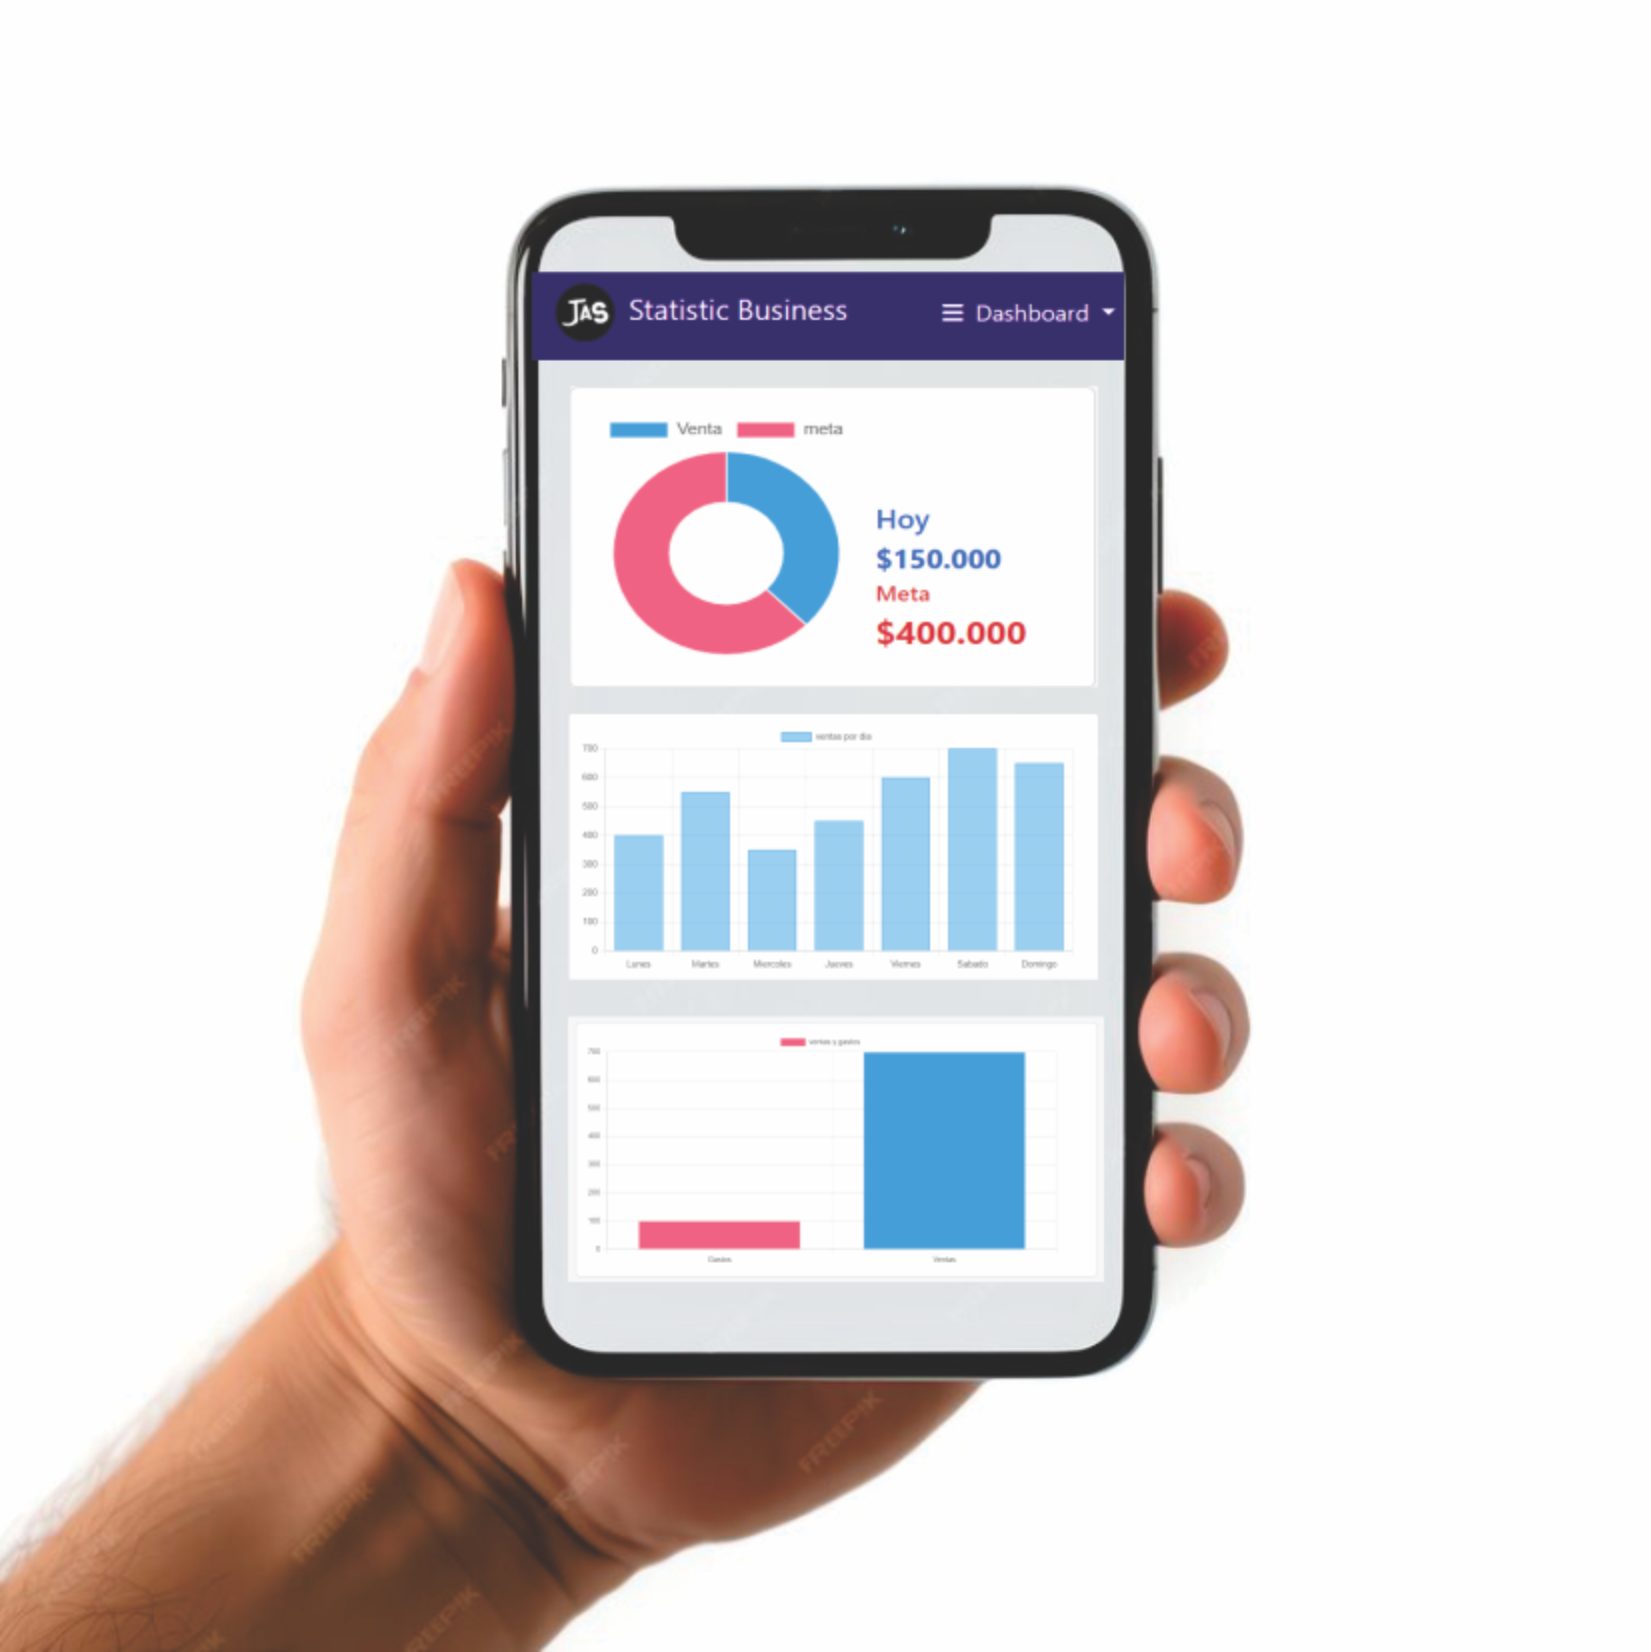
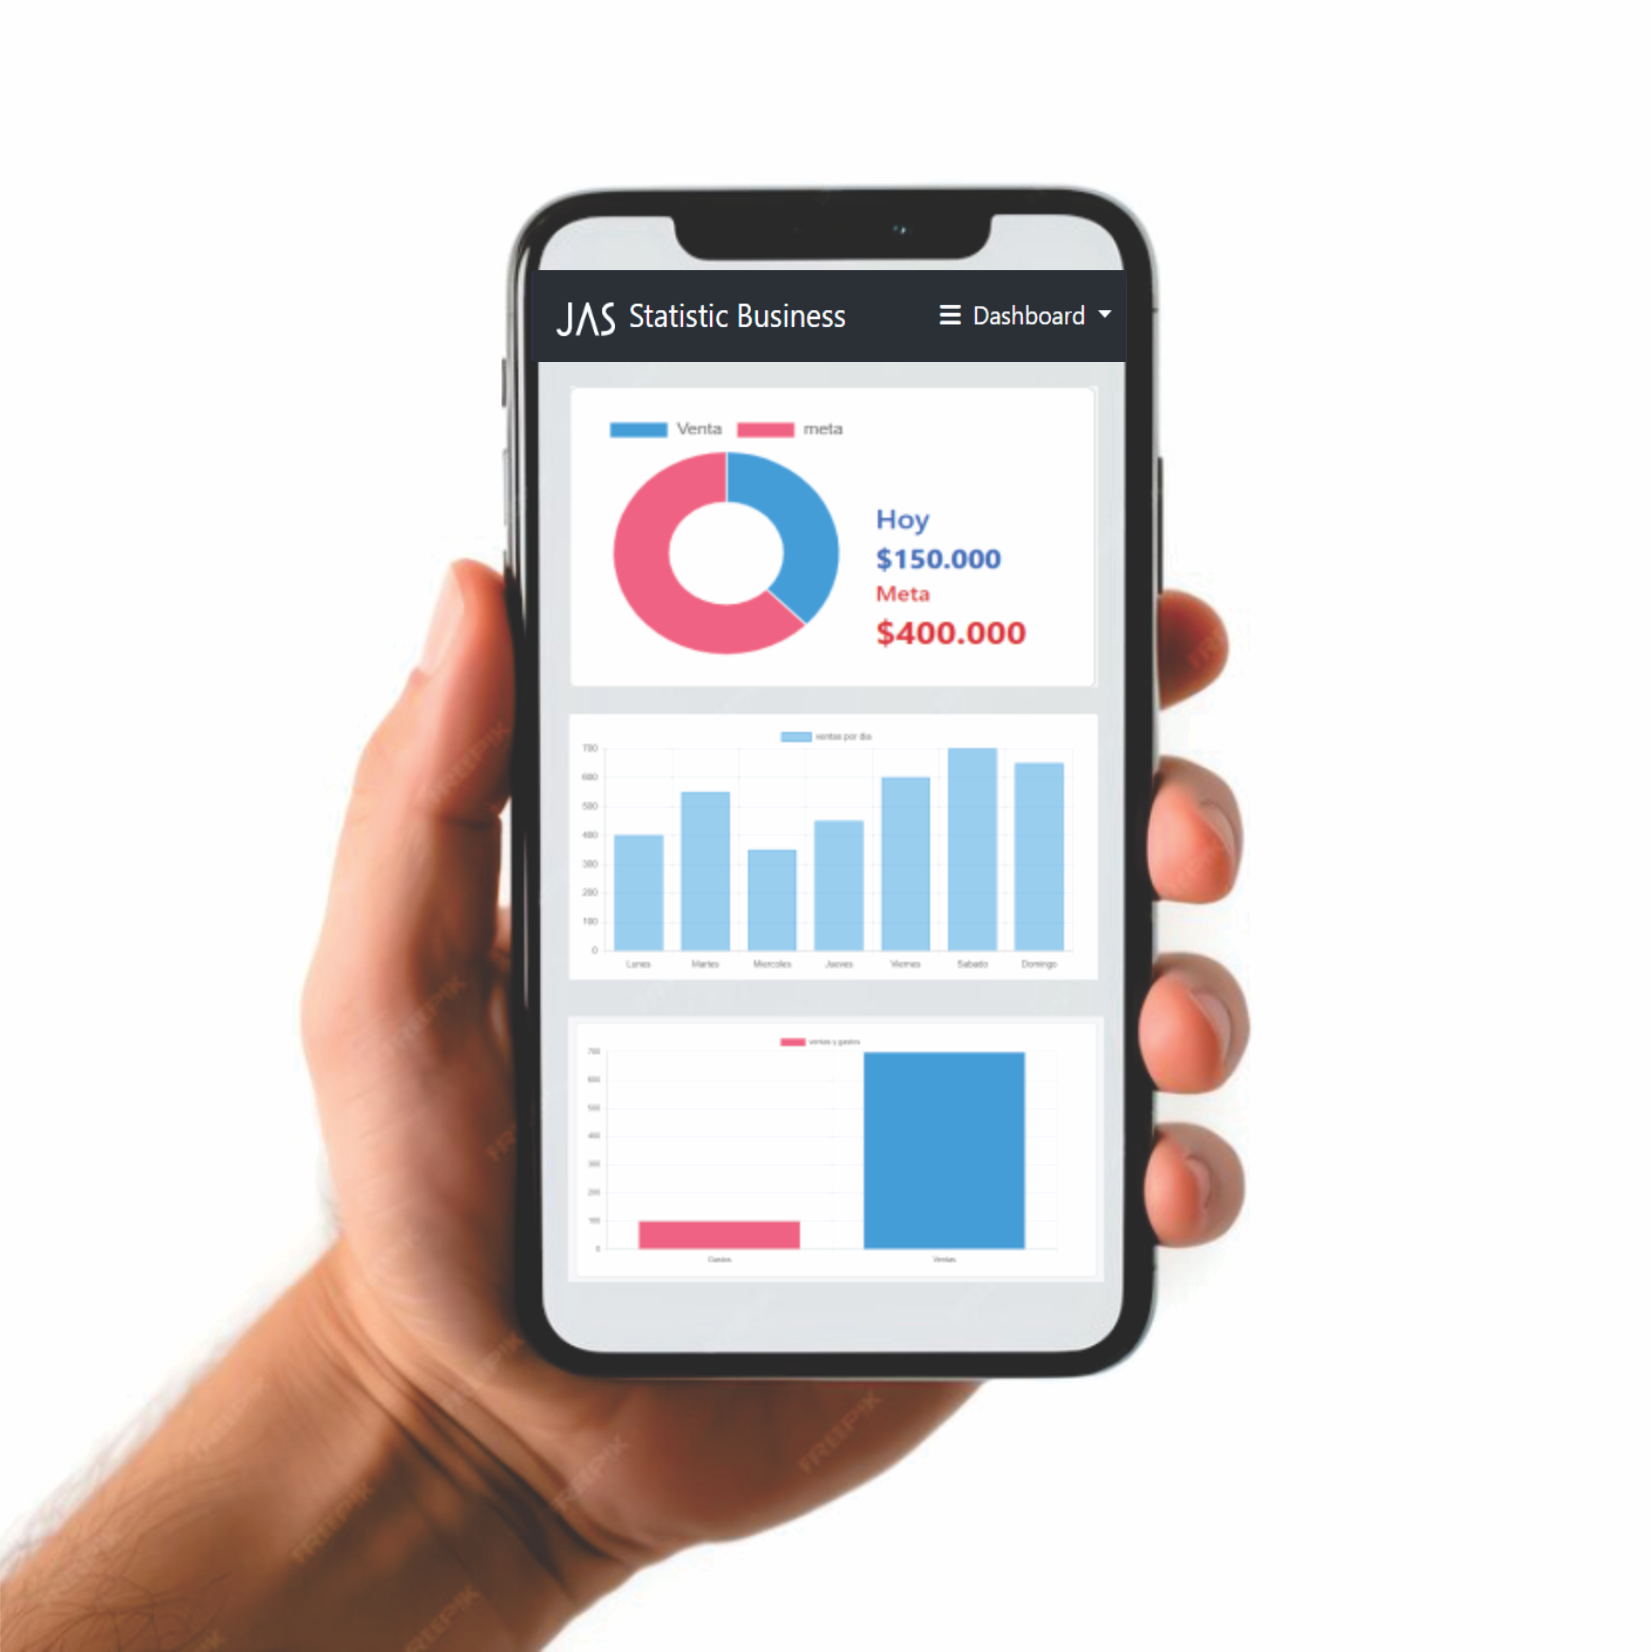
actualizancion

Changed region(s): [[0.3089, 0.1544, 0.6796, 0.2161]]

diff --git a/src/app/components/ventas/ventas.component.html b/src/app/components/ventas/ventas.component.html
@@ -32,11 +32,11 @@
                             <div class="d-flex justify-content-between align-items-center my-2">
                                 <p class="fs-4 text-producto mb-0">{{ prodCarrito.nombre }} - ${{ prodCarrito.valor * prodCarrito.cantidad }}</p>
                                 <div class="btn-toolbar btn-group-mas-menos" role="toolbar" aria-label="Toolbar with button groups">
-                                    <button type="button" class="btn btn-dark mas_menos" (click)="modificarProductoResumen('restar', prodCarrito.cantidad, $index)">
+                                    <button type="button" class="btn btn-secondary mas_menos" (click)="modificarProductoResumen('restar', prodCarrito.cantidad, $index)">
                                         <i class="fa-solid fa-minus"></i>
                                     </button>
                                     <p class="fs-4 mx-2 mb-0">{{ prodCarrito.cantidad }}</p>
-                                    <button type="button" class="btn btn-dark mas_menos" (click)="modificarProductoResumen('sumar', prodCarrito.cantidad, $index)">
+                                    <button type="button" class="btn btn text-white mas_menos botonpagp" (click)="modificarProductoResumen('sumar', prodCarrito.cantidad, $index)">
                                         <i class="fa-solid fa-plus"></i>
                                     </button>
                                 </div>
@@ -76,7 +76,7 @@
                                         </div>
                                     </div>
                                     <div class="modal-footer">
-                                        <button class="btn btn-primary" data-bs-target="#exampleModalToggle2" data-bs-toggle="modal">Proceder al pago</button>
+                                        <button class="btn btn botonpagp text-white"  data-bs-target="#exampleModalToggle2" data-bs-toggle="modal">Proceder al pago</button>
                                     </div>
                                 </div>
                             </div>
@@ -94,14 +94,14 @@
                                     </div>
                                     <div class="modal-footer">
                                         <button type="button" class="btn btn-secondary" data-bs-dismiss="modal">Cancelar</button>
-                                        <button type="button" class="btn btn-primary" data-bs-dismiss="modal">Confirmar pago</button>
+                                        <button type="button" class="btn btn text-white botonpagp" data-bs-dismiss="modal" (click)="confirmarPago()">Confirmar pago</button>
                                     </div>
                                 </div>
                             </div>
                         </div>
 
                         <div>
-                            <button class="btn btn-dark fs-5 mt-5" data-bs-target="#exampleModalToggle" data-bs-toggle="modal">Hacer pedido</button>
+                            <button class="btn btn botonpagp text-white fs-5 mt-5" data-bs-target="#exampleModalToggle" data-bs-toggle="modal">Hacer pedido</button>
                         </div>
                     </div>
                 </div>

diff --git a/src/app/components/pagina-principal/pagina-principal.component.html b/src/app/components/pagina-principal/pagina-principal.component.html
@@ -1,6 +1,6 @@
 <nav class="navbar">
     <a class="navbar-brand ms-3" href="#">
-        <img src="img/LOGO STADISTIC.png" alt="Bootstrap" width="50" height="50" class="ms-4" />
+        <img src="img/nuevo_logo.png" alt="Bootstrap" width="110" height="70" class="ms-4" />
     </a>
     <ul class="nav justify-content-end">
         <li class="nav-item">
@@ -19,7 +19,7 @@
         <img src="img/mano_estadisticas.png" class="imagen_mano" />
         <div class="" style="width: 450px; height: 505px">
             <p class="titulo fw-bold">Controla tu negocio</p>
-            <p class="parrafo fw-bolder">Usa nuestro software para controla tu negocio desde tu celular</p>
+            <p class="parrafo fw-bolder">Gestiona tu negocio de manera fácil y directa desde tu celular</p>
             <div>
                 <a href="#footer">
                     <button type="button" class="botonend btn btn-outline-success fw-bolder">
@@ -49,12 +49,12 @@
                     <input type="number" class="form-control mb-2" id="inputPassword1" placeholder="Numero de celular" />
                 </div>
             </div>
-            <div class="d-flex">
-                <img src="img/logo_face.png" alt="" class="logos" />
-                <img src="img/logo_instagram.png" alt="" class="logos" />
-                <img src="img/logo_x.png" alt="" class="logosx" />
-            </div>
         </div>
+    </div>
+    <div class="d-flex ">
+        <img src="img/Facebook-logo.png" alt="" class="logos" />
+        <img src="img/insta-logo.png" alt="" class="logos" />
+        <img src="img/X-Logo.png" alt="" class="logosx" />
     </div>
     <div></div>
 </body>

diff --git a/src/app/components/pedidos/pedidos-componente.component.html b/src/app/components/pedidos/pedidos-componente.component.html
@@ -1,0 +1,26 @@
+<div class="cajita">
+    <span class="texto3">Resumen de pedidos</span>
+    <div class="linea"></div>
+    <div class="d-flex justify-content-center align-items-center">
+        <section class="col-7">
+            <div *ngFor="let compra of comprasGuardadas; let i = index" class="card p-2 mb-3">
+                <div class="row g-0">
+                    <div class="col-md-10">
+                        <div class="card-body d-flex justify-content-between position-relative">
+                            <button (click)="eliminarCompra(i)" class="btn-close position-absolute" style="top: 4px; right: -110px;"></button>
+                            <div class="ms-5">
+                                <p class="card-text fs-1 fw-bolder">{{ compra | currency:'USD':'symbol':'1.0-0' }}</p>
+                            </div>
+                            <div class="col-2">
+                                <div class="d-flex justify-content-center align-items-center h-100">
+                                    <i class="fa-solid fa-check icono1"></i>
+                                    <span class="letra4 fs-3">Entregado</span>
+                                </div>
+                            </div>
+                        </div>
+                    </div>
+                </div>
+            </div>
+
+
+

diff --git a/src/app/components/nav-bar/nav-bar.component.html b/src/app/components/nav-bar/nav-bar.component.html
@@ -1,8 +1,8 @@
-<nav class="navbar" style="background-color: #2e017c">
+<nav class="navbar" style="background-color: #1f2b37">
     <div class="d-flex">
-        <a class="navbar-brand ms-3 text-white" href="#">
-            <img src="img/LOGO STADISTIC.png" alt="Logo" width="40" class="align-items-center me-1"/>
-            Statistic Business
+        <a class="navbar-brand ms-3 text-white fs-6 text-lg-center d-flex" href="#">
+            <img src="img/LOGO STADISTIC.png" alt="Logo" width=""  class="logo align-items-center me-3 "/>
+            <p class="mt-2 ms-1">Statistic Business</p>
         </a>
         <ul class="nav nav-underline align-items-center ms-5">
             <li class="nav-item dropdown">
@@ -25,7 +25,7 @@
                 </a>
             </li>
             <li class="nav-item">
-                <a class="nav-link text-white fw-lighter" routerLink="/">
+                <a class="nav-link text-white fw-lighter" routerLink="/pedidos">
                     <i class="fa-solid fa-clipboard-list me-1"></i>Pedidos
                 </a>
             </li>

diff --git a/src/app/components/pedidos/pedidos-componente.component.ts b/src/app/components/pedidos/pedidos-componente.component.ts
@@ -1,0 +1,29 @@
+import { CommonModule } from '@angular/common';
+import { Component } from '@angular/core';
+
+@Component({
+    selector: 'app-pedidos-componente',
+    standalone: true,
+    imports: [
+        CommonModule
+    ],
+    templateUrl: './pedidos-componente.component.html',
+    styleUrl: './pedidos-componente.component.css'
+})
+export class PedidosComponenteComponent {
+    comprasGuardadas: number[] = [];
+
+    ngOnInit() {
+        // Recuperar la lista de compras del localStorage
+        const compras = JSON.parse(localStorage.getItem('compras') || '[]');
+        this.comprasGuardadas = compras;
+    }
+    eliminarCompra(indice: number) {
+        // Eliminar el elemento en el índice especificado
+        this.comprasGuardadas.splice(indice, 1);
+
+        // Actualizar el localStorage con la nueva lista
+        localStorage.setItem('compras', JSON.stringify(this.comprasGuardadas));
+    }
+}
+

diff --git a/src/app/app.routes.ts b/src/app/app.routes.ts
@@ -4,6 +4,7 @@ import { EstadisticasComponent } from './components/admin/estadisticas/estadisti
 import { ContactoComponent } from './components/contacto/contacto.component';
 import { InventarioComponent } from './components/admin/inventario/inventario.component';
 import { VentasComponent } from './components/ventas/ventas.component';
+import { PedidosComponenteComponent } from './components/pedidos/pedidos-componente.component';
 
 
 
@@ -17,4 +18,5 @@ export const routes: Routes = [
     { path: "contacto", component: ContactoComponent },
     { path: "inventario", component: InventarioComponent},
     { path: "ventas", component: VentasComponent},
+    { path: 'pedidos', component: PedidosComponenteComponent },
 ];

diff --git a/src/app/components/pedidos/pedidos-componente.component.spec.ts b/src/app/components/pedidos/pedidos-componente.component.spec.ts
@@ -1,0 +1,23 @@
+import { ComponentFixture, TestBed } from '@angular/core/testing';
+
+import { PedidosComponenteComponent } from './pedidos-componente.component';
+
+describe('PedidosComponenteComponent', () => {
+  let component: PedidosComponenteComponent;
+  let fixture: ComponentFixture<PedidosComponenteComponent>;
+
+  beforeEach(async () => {
+    await TestBed.configureTestingModule({
+      imports: [PedidosComponenteComponent]
+    })
+    .compileComponents();
+
+    fixture = TestBed.createComponent(PedidosComponenteComponent);
+    component = fixture.componentInstance;
+    fixture.detectChanges();
+  });
+
+  it('should create', () => {
+    expect(component).toBeTruthy();
+  });
+});

diff --git a/src/app/components/pedidos/pedidos-componente.component.css b/src/app/components/pedidos/pedidos-componente.component.css
@@ -1,0 +1,41 @@
+.buscar{
+    background-color: var(--color-gris);
+}
+
+.buscar:hover{
+    background-color: #b1b1b1;
+}
+
+.cajita{
+    padding-top: 30px;
+    margin-left: 150px;
+    margin-right: 150px;
+}
+
+.texto3{
+    font-size: 1.6rem;
+    font-weight: bold;
+    padding-left: 15px;
+}
+
+.linea{
+    border: 1px solid #dbd5d5;
+    margin-bottom: 30px;
+}
+
+.icono1{
+    color: #15e765;
+    font-size: 2rem;
+}
+
+.letra4{
+    font-weight: bold;
+    padding-left: 10px;
+    text-align: center;
+}
+
+.icono2{
+    color: #ff0000;
+    font-size: 2rem;
+    padding-right: 5px;
+}

diff --git a/src/app/components/ventas/ventas.component.ts b/src/app/components/ventas/ventas.component.ts
@@ -84,4 +84,13 @@ export class VentasComponent {
                 localStorage.setItem("lista-carrito", JSON.stringify(this.carritoActual))
                 this.actualizacionResumenCompra()
     }
+    confirmarPago() {
+        let comprasGuardadas = JSON.parse(localStorage.getItem('compras') || '[]');
+
+        // Agregar el nuevo valor de totalCompra a la lista
+        comprasGuardadas.push(this.totalCompra);
+
+        // Guardar nuevamente la lista en el localStorage
+        localStorage.setItem('compras', JSON.stringify(comprasGuardadas));
+    }
 }

diff --git a/src/app/components/pagina-principal/pagina-principal.component.css b/src/app/components/pagina-principal/pagina-principal.component.css
@@ -21,7 +21,7 @@
     height: 50px;
 }
 .pagina-secundaria{
-    height: 740px;
+    height: 660px;
     width: 1400px;
 }
 .p-funciona{
@@ -32,12 +32,13 @@
     font-size: 100px;
     margin-left: 120px;
     line-height: 90px;
-    margin-bottom: 220px;
+    margin-bottom: 210px;
     margin-right: 150px;
+
 
 }
 .video{
-    margin-bottom: 20px;
+    margin-bottom: -50px;
 
 }
 .p-escribeme{
@@ -57,3 +58,4 @@
 .logosx{
     height: 60px;
 }
+

diff --git a/src/app/components/nav-bar/nav-bar.component.css b/src/app/components/nav-bar/nav-bar.component.css
@@ -3,7 +3,11 @@
     --color-morado:#2e017c;
 
 }
-
+.logo{
+    height: 30px !important;
+    width: 50px;
+    margin-top: 5px;
+}
 
 
 .buscar{

diff --git a/src/app/components/ventas/ventas.component.css b/src/app/components/ventas/ventas.component.css
@@ -99,3 +99,6 @@
     position: relative;
     bottom: 10px;
 }
+.botonpagp{
+    background: #009F10;
+}
